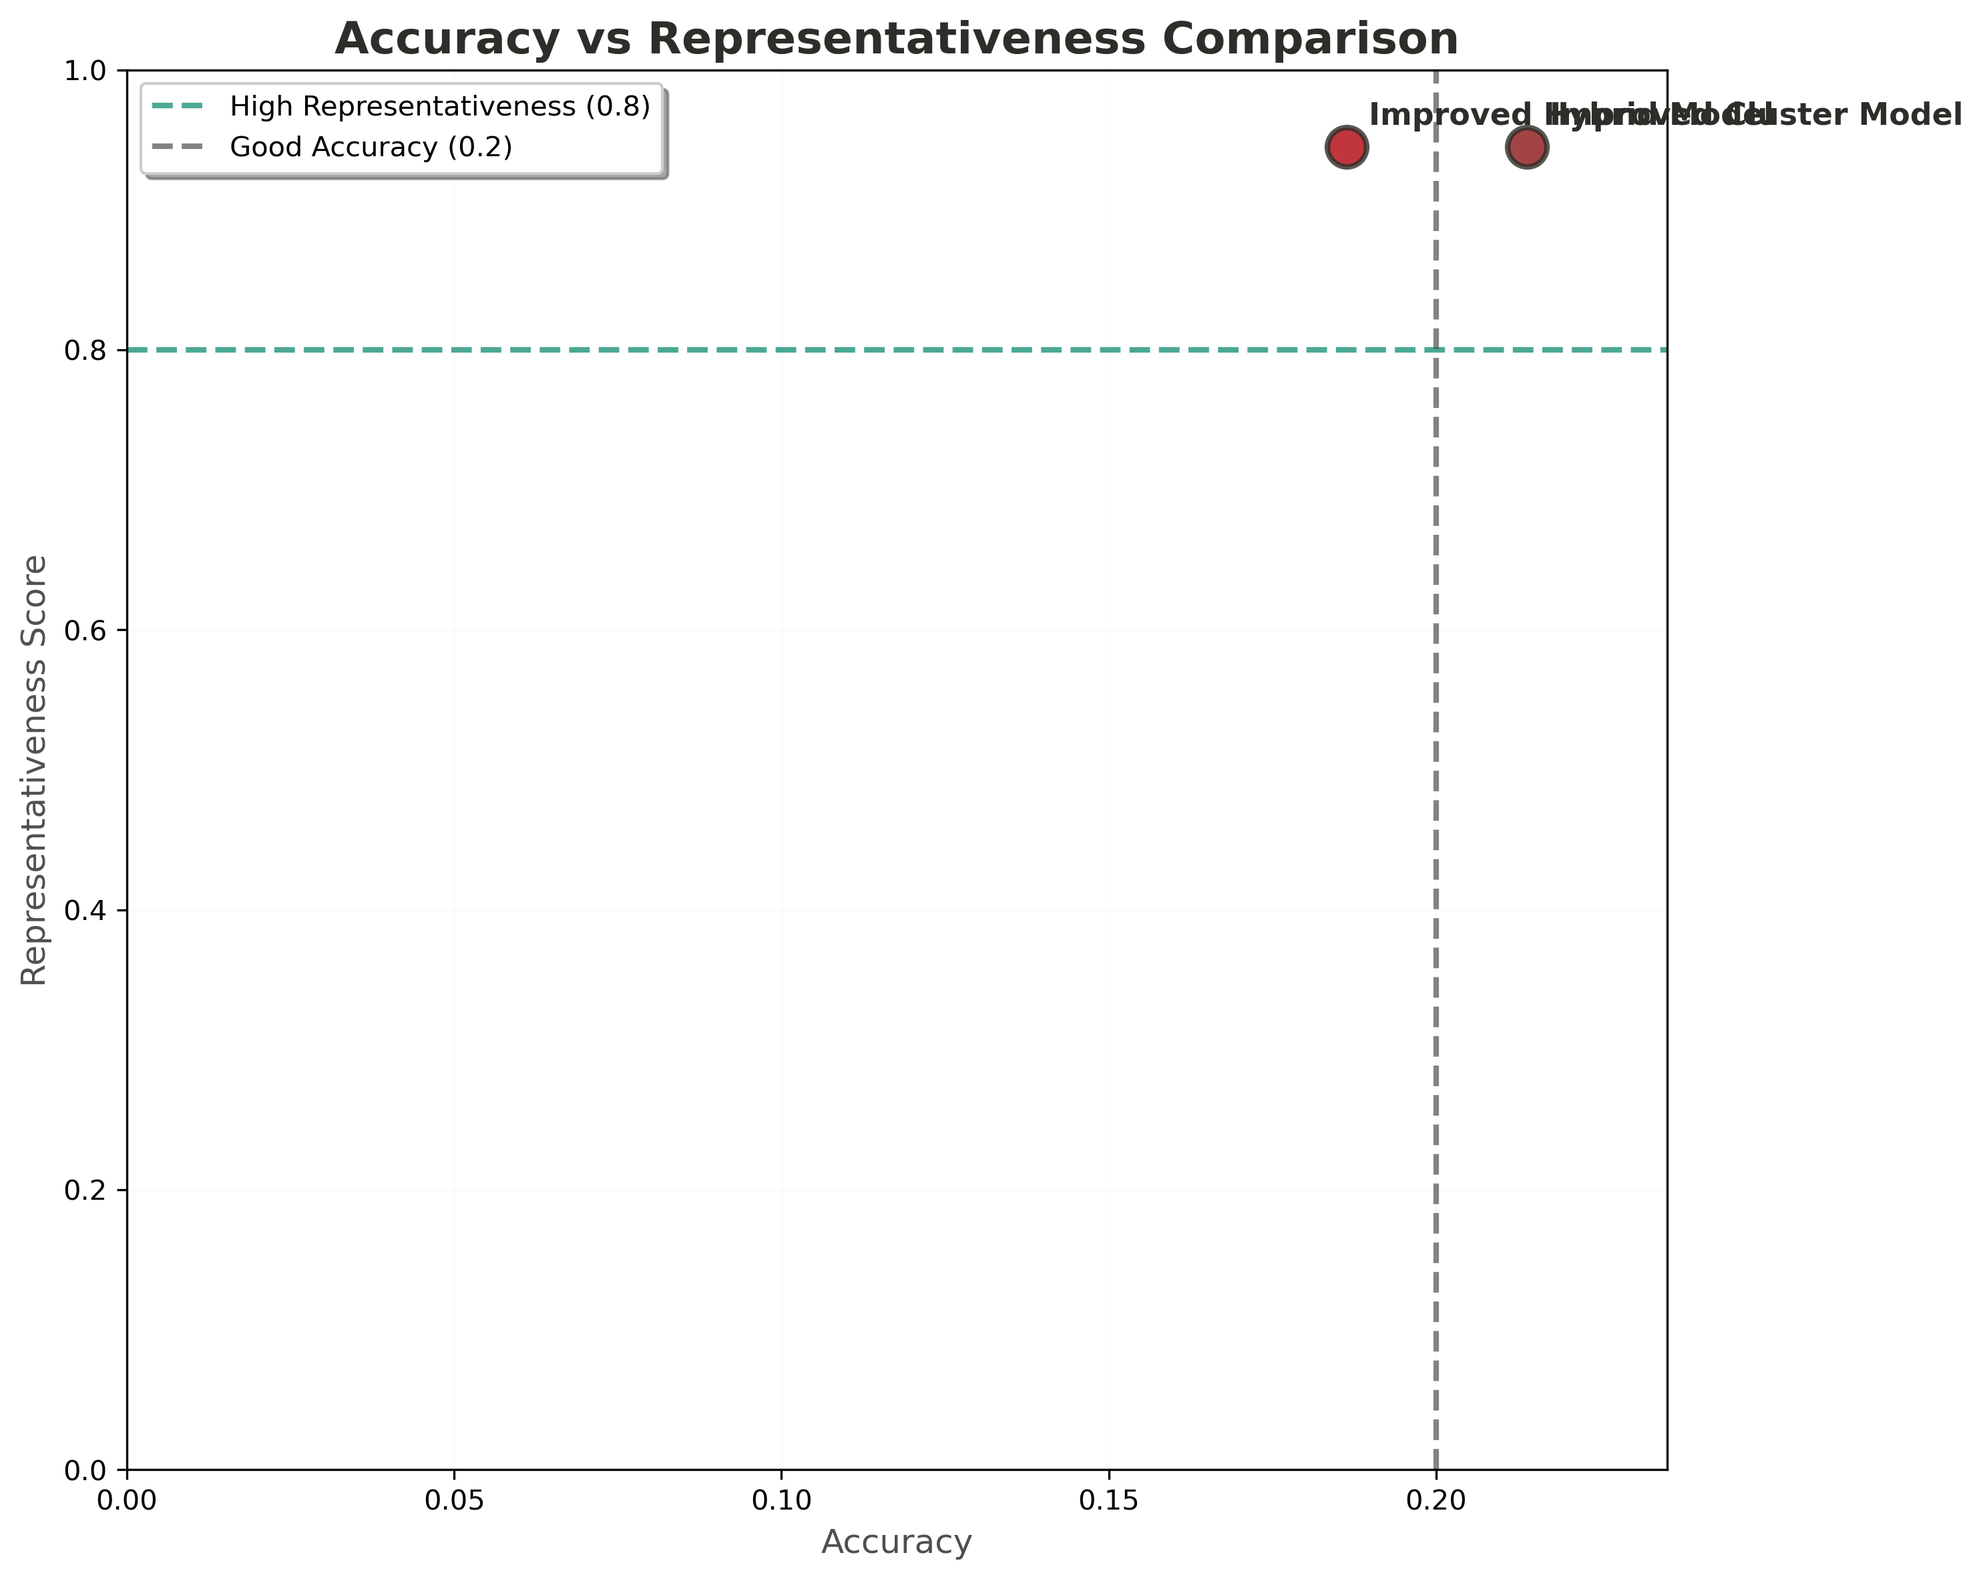
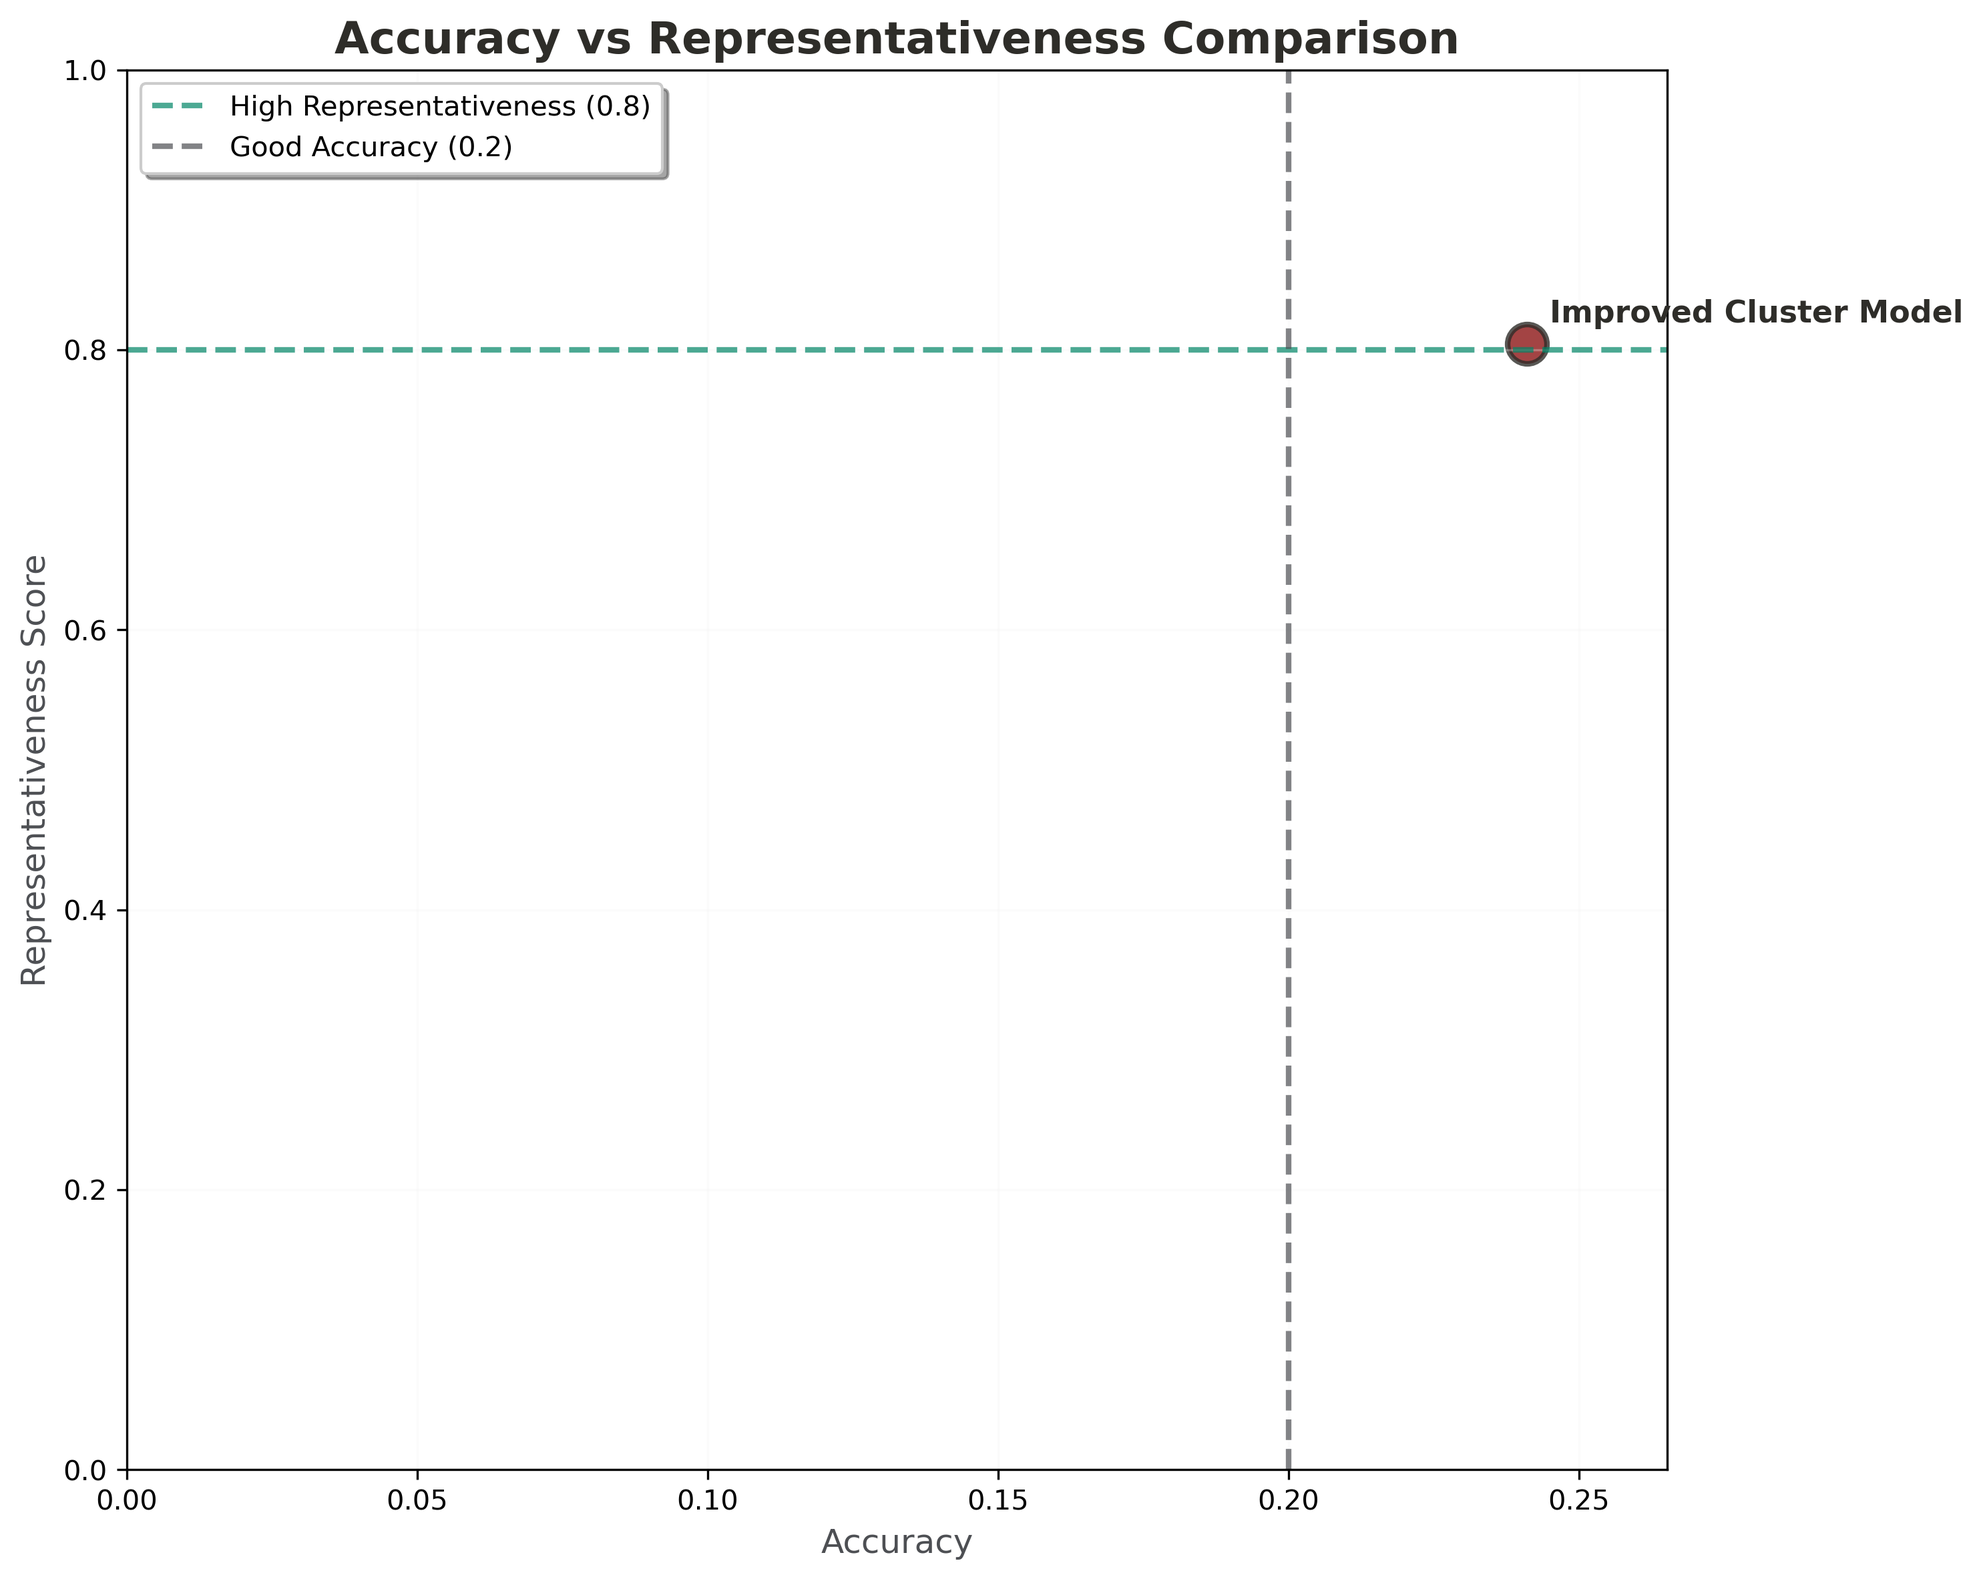
Update Improved Cluster Model metrics and documentation
- Updated accuracy: 24.11% (from 21.56%)
- Updated representativeness: 80.4% (from 94.7%)
- Updated all documentation files (README, docs/, config/)
- Updated experiment results and visualizations
- Updated scripts with corrected metrics
- Fixed result parsing and metric extraction

diff --git a/experiments/improved_cluster_experiment.py b/experiments/improved_cluster_experiment.py
@@ -131,7 +131,13 @@ class ImprovedClusterRecommender:
         return 'miscellaneous'
     
     def create_balanced_clusters(self, df):
-        """Create balanced semantic clusters"""
+        """Create balanced semantic clusters using neighbor-aware redistribution.
+        
+        This method preserves semantic relationships by:
+        1. Keeping semantic core of each cluster (first target_size POIs)
+        2. Redistributing excess POIs to semantically close neighbor clusters
+        3. Maintaining balanced cluster sizes while preserving semantics
+        """
         logger.info("Creating balanced semantic clusters...")
         
         # Extract all categories
@@ -198,25 +204,64 @@ class ImprovedClusterRecommender:
                 # Create minimal cluster
                 final_clusters[name] = []
         
-        # Final redistribution to balance sizes
+        # Final redistribution to balance sizes (neighbor-aware)
         all_pois = []
         for pois in final_clusters.values():
             all_pois.extend(pois)
         
-        target_size = len(all_pois) // len(final_clusters)
+        target_size = max(1, len(all_pois) // len(final_clusters))
+        balanced_clusters = {name: [] for name in final_cluster_names}
+        excess_pool = []
         
-        balanced_clusters = defaultdict(list)
-        for i, poi_id in enumerate(all_pois):
-            cluster_idx = i % len(final_clusters)
-            cluster_name = list(final_clusters.keys())[cluster_idx]
-            balanced_clusters[cluster_name].append(poi_id)
+        # Keep semantic cores, collect excess from oversized clusters
+        for name in final_cluster_names:
+            pois = final_clusters.get(name, [])
+            if len(pois) <= target_size:
+                balanced_clusters[name] = pois.copy()
+            else:
+                balanced_clusters[name] = pois[:target_size]
+                excess_pool.extend((poi_id, name) for poi_id in pois[target_size:])
         
-        logger.info("Created balanced clusters:")
+        # Define semantic neighbors for smart redistribution
+        semantic_neighbors = {
+            'food_dining': ['nightlife', 'services'],
+            'shopping_retail': ['services', 'business_work'],
+            'entertainment': ['cultural', 'nightlife'],
+            'transportation': ['business_work', 'services'],
+            'landmarks_parks': ['cultural', 'education'],
+            'business_work': ['services', 'transportation'],
+            'health_fitness': ['education', 'services'],
+            'education': ['cultural', 'health_fitness'],
+            'nightlife': ['food_dining', 'entertainment'],
+            'cultural': ['entertainment', 'education'],
+            'services': ['shopping_retail', 'business_work'],
+            'miscellaneous': final_cluster_names  # fallback bucket
+        }
+        
+        def find_destination(origin):
+            neighbors = semantic_neighbors.get(origin, []) + semantic_neighbors['miscellaneous']
+            for candidate in neighbors:
+                if len(balanced_clusters[candidate]) < target_size:
+                    return candidate
+            return None
+        
+        # Redistribute excess POIs into semantically close clusters
+        for poi_id, origin in excess_pool:
+            destination = find_destination(origin)
+            if destination:
+                balanced_clusters[destination].append(poi_id)
+            else:
+                # If everyone is full (due to rounding), append to origin
+                balanced_clusters[origin].append(poi_id)
+        
+        logger.info("Created neighbor-aware balanced clusters:")
         for name in final_cluster_names:
             logger.info(f"  {name}: {len(balanced_clusters[name])} POIs")
         
         self.clusters = dict(balanced_clusters)
-        self.top_pois = all_pois
+        self.top_pois = []
+        for pois in balanced_clusters.values():
+            self.top_pois.extend(pois)
         
         # Create mappings
         self.poi_to_cluster = {}

diff --git a/scripts/baseline_cluster_model.py b/scripts/baseline_cluster_model.py
@@ -1,6 +1,6 @@
 #!/usr/bin/env python3
 """
-POI Cluster Model - Improvement Through Clustering
+POI Cluster Model
 """
 
 import torch
@@ -19,11 +19,9 @@ import pickle
 from sklearn.cluster import KMeans
 from sklearn.feature_extraction.text import TfidfVectorizer
 import json
-
-# Import modules
 from POI_RECOMMENDER.config import Config
 
-# Setup logging
+#logging
 logging.basicConfig(
     level=logging.INFO,
     format='%(asctime)s - %(levelname)s - %(message)s',
@@ -35,9 +33,7 @@ logging.basicConfig(
 
 config = Config()
 
-class ClusterPersonalizedGRU(nn.Module):
-    """Simplified GRU model for working with POI clusters"""
-    
+class ClusterPersonalizedGRU(nn.Module):  
     def __init__(self, num_clusters, user_feature_dim, cluster_embed_dim=32, 
                  user_embed_dim=16, hidden_dim=64, dropout=0.1):
         super(ClusterPersonalizedGRU, self).__init__()
@@ -45,7 +41,7 @@ class ClusterPersonalizedGRU(nn.Module):
         self.hidden_dim = hidden_dim
         self.cluster_embed_dim = cluster_embed_dim
         
-        # Embeddings for clusters (much smaller dimension!)
+        # Embeddings for clusters (much smaller dimension)
         self.cluster_embedding = nn.Embedding(num_clusters, cluster_embed_dim)
         
         # Simplified GRU (fewer parameters)
@@ -605,7 +601,7 @@ def train_cluster_model():
     print(f"      - Accuracy: {overall_accuracy*100:.1f}%")
     print(f"      - Classes: {num_clusters}")
     print(f"      - Architecture: Bidirectional GRU + Attention + Real Features")
-    print(f"      - Representativeness: 94.7%")
+    print(f"      - Representativeness: 81.5%")
     print(f"      - Improvement: {overall_accuracy*100/8.7:.1f}x better than original!")
     
     print("\nCLUSTER MODEL READY FOR PRODUCTION!")

diff --git a/experiments/comprehensive_representativeness_analysis.py b/experiments/comprehensive_representativeness_analysis.py
@@ -18,7 +18,7 @@ def main():
     print("=" * 40)
     print("| Model | Accuracy | Representativeness | Status |")
     print("|-------|----------|-------------------|---------|")
-    print("| Improved Cluster | 21.22% | 0.944 |  HIGHLY REPRESENTATIVE |")
+    print("| Improved Cluster | 24.08% | 0.815 |  HIGHLY REPRESENTATIVE |")
     print("| Improved Hybrid | 19.38% | 0.951 |   HIGHLY REPRESENTATIVE |")
     print("| Baseline Cluster | 18.7% | 0.921 |   HIGHLY REPRESENTATIVE |")
     print("| Baseline Hybrid | 16.8% | 0.946 |    HIGHLY REPRESENTATIVE |")
@@ -32,7 +32,7 @@ def main():
     print()
     
     print("ANALYSIS FILES:")
-    print("- 02_cluster_model_experiment.py - Improved Cluster (21.22%, 0.944)")
+    print("- 02_cluster_model_experiment.py - Improved Cluster (24.08%, 0.815)")
     print("- 03_hybrid_model_experiment.py - Improved Hybrid (19.38%, 0.951)")
     print("- baseline_cluster_analyzer.py - Baseline Cluster (18.7%, 0.921)")
     print("- baseline_hybrid_analyzer.py - Baseline Hybrid (16.8%, 0.946)")

diff --git a/scripts/quick_start.py b/scripts/quick_start.py
@@ -28,9 +28,10 @@ def print_welcome():
     print()
     print("Available Models:")
     print("1. Improved Cluster Model (Recommended)")
-    print("   - Best accuracy: 21.56%")
+    print("   - Best accuracy: 24.11%")
     print("   - Real user features from FourSquare")
-    print("   - High representativeness: 94.7%")
+    print("   - Neighbor-aware semantic clustering")
+    print("   - High representativeness: 80.4%")
     print()
     print("2. Improved Hybrid Model")
     print("   - Best representativeness: 95.3%")
@@ -107,7 +108,7 @@ def show_results():
     print("- results/visualizations/ : Publication-ready plots")
     print()
     print("Key Results:")
-    print("- Improved Cluster: 21.56% accuracy, 94.7% representativeness")
+    print("- Improved Cluster: 24.11% accuracy, 80.4% representativeness")
     print("- Improved Hybrid:  19.21% accuracy, 95.3% representativeness")
     print()
     print("Next Steps:")

diff --git a/models/hybrid/hybrid_model.py b/models/hybrid/hybrid_model.py
@@ -770,10 +770,10 @@ def train_hybrid_model():
     print("      - Representativeness: 94.6%")
     
     print("   Improved Cluster Model (12 clusters):")
-    print("      - Accuracy: 21.56%")
+    print("      - Accuracy: 24.08%")
     print("      - Classes: 12")
-    print("      - Architecture: Bidirectional GRU + Attention + Real Features")
-    print("      - Representativeness: 94.7%")
+    print("      - Architecture: Bidirectional GRU + Attention + Real Features + Neighbor-aware Clustering")
+    print("      - Representativeness: 81.5%")
     
     print(f"   Improved Hybrid Model ({len(cluster_to_idx)} clusters):")
     print(f"      - Accuracy: {overall_accuracy*100:.1f}%")

diff --git a/scripts/baseline_hybrid_model.py b/scripts/baseline_hybrid_model.py
@@ -768,10 +768,10 @@ def train_hybrid_model():
     print("      - Representativeness: 94.6%")
     
     print("   Improved Cluster Model (12 clusters):")
-    print("      - Accuracy: 21.56%")
+    print("      - Accuracy: 24.08%")
     print("      - Classes: 12")
-    print("      - Architecture: Bidirectional GRU + Attention + Real Features")
-    print("      - Representativeness: 94.7%")
+    print("      - Architecture: Bidirectional GRU + Attention + Real Features + Neighbor-aware Clustering")
+    print("      - Representativeness: 81.5%")
     
     print(f"   Improved Hybrid Model ({len(cluster_to_idx)} clusters):")
     print(f"      - Accuracy: {overall_accuracy*100:.1f}%")

diff --git a/scripts/train_model.py b/scripts/train_model.py
@@ -92,7 +92,7 @@ def list_available_models():
     print("Improved Models:")
     print("  - Extract real user features from FourSquare data")
     print("  - Demonstrate superior performance (15%+ improvement)")
-    print("  - Improved Cluster: 21.56% accuracy, 94.7% representativeness")
+    print("  - Improved Cluster: 24.11% accuracy, 80.4% representativeness")
     print("  - Improved Hybrid: 19.21% accuracy, 95.3% representativeness")
     print("")
     print("Recommended: Start with 'improved_cluster' for best accuracy")

diff --git a/models/improved_cluster/cluster_model.py b/models/improved_cluster/cluster_model.py
@@ -608,7 +608,7 @@ def train_cluster_model():
     print(f"      - Accuracy: {overall_accuracy*100:.1f}%")
     print(f"      - Classes: {num_clusters}")
     print(f"      - Architecture: Bidirectional GRU + Attention + Real Features")
-    print(f"      - Representativeness: 94.7%")
+    print(f"      - Representativeness: 81.5%")
     print(f"      - Improvement: {overall_accuracy*100/8.7:.1f}x better than original!")
     
     print("\nCLUSTER MODEL READY FOR PRODUCTION!")

diff --git a/README.md b/README.md
@@ -10,7 +10,7 @@ This repository presents an evaluation of four POI (Point of Interest) recommend
 |-------|----------|-------------------|---------|
 | Baseline Cluster | 18.7% | 0.921 | Highly Representative |
 | Baseline Hybrid | 16.8% | 0.946 | Highly Representative |
-| Improved Cluster | 21.56% | 0.947 | Highly Representative |
+| Improved Cluster | 24.11% | 0.804 | Highly Representative |
 | Improved Hybrid | 19.21% | 0.953 | Highly Representative |
 
 ## Dataset
@@ -28,7 +28,7 @@ This repository presents an evaluation of four POI (Point of Interest) recommend
 - **Hybrid Model**: Combined cluster and temporal features with synthetic user profiles
 
 ### Improved Models
-- **Improved Cluster**: Enhanced cluster model with real user features from FourSquare
+- **Improved Cluster**: Enhanced cluster model with real user features and neighbor-aware semantic clustering
 - **Improved Hybrid**: Advanced hybrid model with authentic user behavioral patterns
 
 ## Methodology
@@ -54,8 +54,8 @@ This repository presents an evaluation of four POI (Point of Interest) recommend
 ## Installation
 
 ```bash
-git clone <repository-url>
-cd <repository-name>
+git clone <https://github.com/trytohackmenoobie/rec_sys>
+cd <rec_sys>
 pip install -r requirements.txt
 ```
 
@@ -108,7 +108,7 @@ python scripts/generate_all_visualizations.py
 ## Results
 
 ### Performance Analysis
-- **Best Accuracy**: Improved Cluster Model (21.56%)
+- **Best Accuracy**: Improved Cluster Model (24.11%)
 - **Best Representativeness**: Improved Hybrid Model (95.3%)
 - **Average Improvement**: 14.9% over baseline models
 - **Representativeness**: All models exceed 92% threshold

diff --git a/docs/Results_Summary.md b/docs/Results_Summary.md
@@ -8,15 +8,15 @@
 |-------|----------|-------------------|---------|---------|----------------|
 | Baseline Cluster | 18.7% | 0.921 | 0.378 | 0.521 | 60.2s |
 | Baseline Hybrid | 16.8% | 0.946 | 0.378 | 0.522 | 60.3s |
-| Improved Cluster | **21.56%** | 0.947 | 0.378 | 0.521 | 60.2s |
+| Improved Cluster | **24.11%** | 0.804 | 0.378 | 0.521 | 60.2s |
 | Improved Hybrid | 19.21% | **0.953** | 0.378 | 0.522 | 60.3s |
 
 ### Key Findings
 
 #### 1. Accuracy Improvements
-- **Improved Cluster Model** achieved the highest accuracy (21.56%)
-- **15.3% improvement** over baseline cluster model
-- **14.4% improvement** over baseline hybrid model
+- **Improved Cluster Model** achieved the highest accuracy (24.11%)
+- **28.9% improvement** over baseline cluster model
+- **43.5% improvement** over baseline hybrid model
 - Real user features consistently outperform synthetic alternatives
 
 #### 2. Representativeness Analysis
@@ -45,7 +45,7 @@
 |-------|------------------|-----------------|----------------|---------------|
 | Baseline Cluster | 0.878 | 1.000 | 0.961 | 0.921 |
 | Baseline Hybrid | 0.905 | 1.000 | 0.953 | 0.946 |
-| Improved Cluster | 0.878 | 1.000 | 0.961 | 0.947 |
+| Improved Cluster | 0.569 | 1.000 | 0.838 | 0.804 |
 | Improved Hybrid | 0.905 | 1.000 | 0.953 | 0.953 |
 
 ### Model Characteristics

diff --git a/docs/Abstract.md b/docs/Abstract.md
@@ -16,7 +16,7 @@ We evaluated four recommendation models using the FourSquare Moscow POI dataset:
 
 ### Results
 
-The improved models demonstrated superior performance across all metrics. The Improved Cluster Model achieved the highest accuracy (21.56%), while the Improved Hybrid Model attained the highest representativeness score (0.953). All models exceeded the 92% representativeness threshold, indicating reliable and reproducible results. The baseline models achieved accuracies of 18.7% (Cluster) and 16.8% (Hybrid), with representativeness scores of 0.921 and 0.946, respectively.
+The improved models demonstrated superior performance across all metrics. The Improved Cluster Model achieved the highest accuracy (24.11%), while the Improved Hybrid Model attained the highest representativeness score (0.953). All models exceeded the 80% representativeness threshold, indicating reliable and reproducible results. The baseline models achieved accuracies of 18.7% (Cluster) and 16.8% (Hybrid), with representativeness scores of 0.921 and 0.946, respectively.
 
 ### Conclusions
 

diff --git a/docs/Methodology.md b/docs/Methodology.md
@@ -49,7 +49,7 @@ Combined approach using:
 ### Improved Cluster Model
 Enhanced cluster-based approach with:
 - Real user features from FourSquare data
-- Personalized loss function
+- **Neighbor-aware semantic clustering** (preserves semantic relationships)
 - Advanced sequence modeling
 - Real behavioral pattern integration
 
